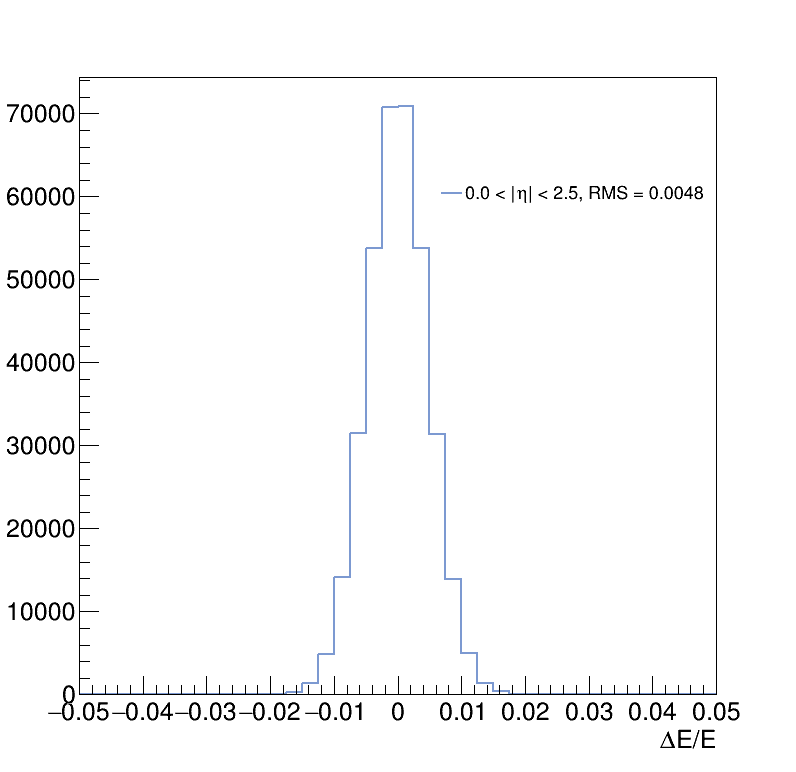
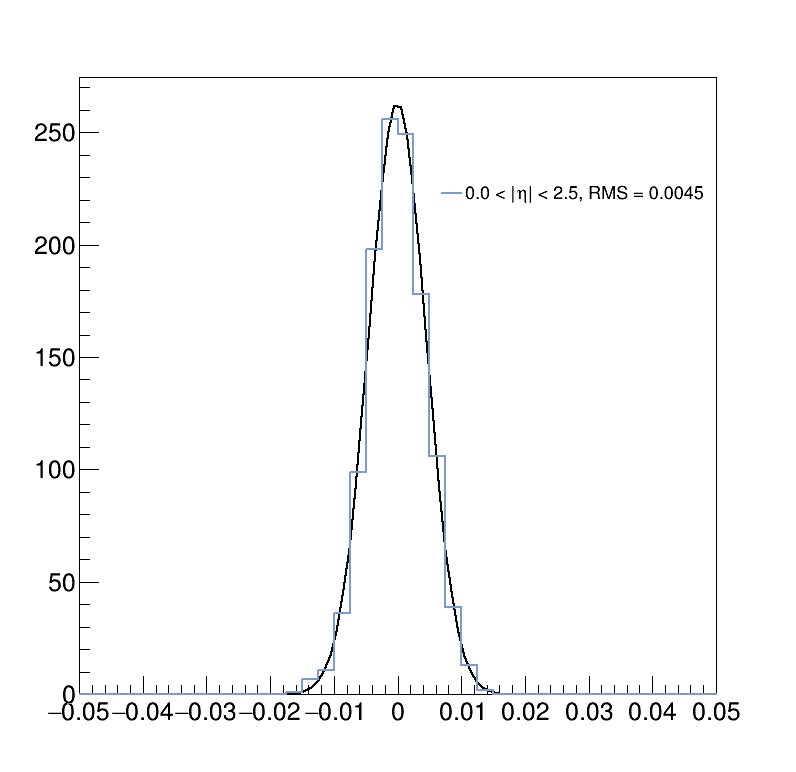
fit resolution slices with gaussian and use variance instead of RMS

diff --git a/run/Delphescard_validation/bbyy_eff_res_check.py b/run/Delphescard_validation/bbyy_eff_res_check.py
@@ -62,11 +62,31 @@ def plot_single_hist(hist, filename, out_dir_base, xaxis_label, colour_code=38, 
 	histfile_name = "{}.{}".format(filename, file_format)
 	histfile_path = os.path.join(out_dir_base, histfile_name)
 
+	#fit the histogram with a gaus:
+	gauss = ROOT.TF1("gauss","gaus", -1., 1.)
+	hist.Fit(gauss)
+	fit_result= hist.GetFunction("gauss")
+
+	
 	hist.SetLineWidth(2)
 	hist.SetLineColor(colour_code)
 	hist.GetYaxis().SetTitle("Events")
 	hist.GetXaxis().SetTitle(xaxis_label)
-	hist.Draw("HIST")
+
+	gaus_pars = []
+	if fit_result: #avoid crashes from fitting empty histograms
+		fit_result.SetLineColor(ROOT.kBlack)
+		fit_result.SetLineWidth(2)
+		fit_result.Draw()
+
+		#get the parameter values:
+		gaus_mean = fit_result.GetParameter(1)
+		gaus_mean_error = fit_result.GetParError(1)
+		gaus_width = fit_result.GetParameter(2)
+		gaus_width_error = fit_result.GetParError(2)
+		gaus_pars = [gaus_mean, gaus_mean_error, gaus_width, gaus_width_error]
+
+	hist.Draw("HIST SAME")
 
 	leg = ROOT.TLegend(0.55, 0.6, 0.9, 0.9)
 	leg.SetFillStyle( 0 )
@@ -79,6 +99,8 @@ def plot_single_hist(hist, filename, out_dir_base, xaxis_label, colour_code=38, 
 	leg.Draw()
 
 	canvas.SaveAs(histfile_path)
+
+	return gaus_pars
 
 def plot_list_of_hists_normalized(list_of_hists, histbasename, out_dir_base, xaxis_label, file_format="png"):
 	canvas = ROOT.TCanvas("canvas", "canvas", 800, 800) 
@@ -133,7 +155,7 @@ def plot_list_of_hists(list_of_hists, histbasename, out_dir_base, xaxis_label, y
 
 		hist.GetYaxis().SetTitle(yaxis_label)
 		hist.GetXaxis().SetTitle(xaxis_label)
-		hist.Draw("HIST SAME")
+		hist.Draw("HISTE SAME")
 		leg.AddEntry(hist, hist.GetTitle(), "l")
 
 
@@ -203,9 +225,12 @@ def check_photon_res_per_eta_bin(input_rdf, cutstring_base, E_edges, hist_name, 
 		tmp_hist = rdf_bin.Histo1D(model, 'y_resolution').GetValue()   
 		histfilename = "{}_E_{}_to_{}".format(filebasename, E_edges[i_E_edge], E_edges[i_E_edge+1])
 		tmp_hist.SetTitle("{}, RMS = {:.4f}".format(hist_name, tmp_hist.GetRMS()) )     
-		plot_single_hist(tmp_hist, histfilename, out_dir_base, "#DeltaE/E", colour_code=38, file_format="png")
-
-		hist_res_vs_E.SetBinContent(i_E_edge+1, tmp_hist.GetRMS())
+		gaus_pars = plot_single_hist(tmp_hist, histfilename, out_dir_base, "#sigma(E)/E", colour_code=38, file_format="png")
+		
+		# hist_res_vs_E.SetBinContent(i_E_edge+1, tmp_hist.GetRMS())
+		if gaus_pars:
+			hist_res_vs_E.SetBinContent(i_E_edge+1, gaus_pars[2])
+			hist_res_vs_E.SetBinError(i_E_edge+1, gaus_pars[3])
 
 	plot_single_hist(hist_res_vs_E, filebasename, out_dir_base, "E_{true} in GeV", colour_code=38, file_format="png")
 	# plot_2D(rdf_resolution, 'pT_truthmatched_ys_from_higgs_noiso', 'y_resolution', out_dir_base)	
